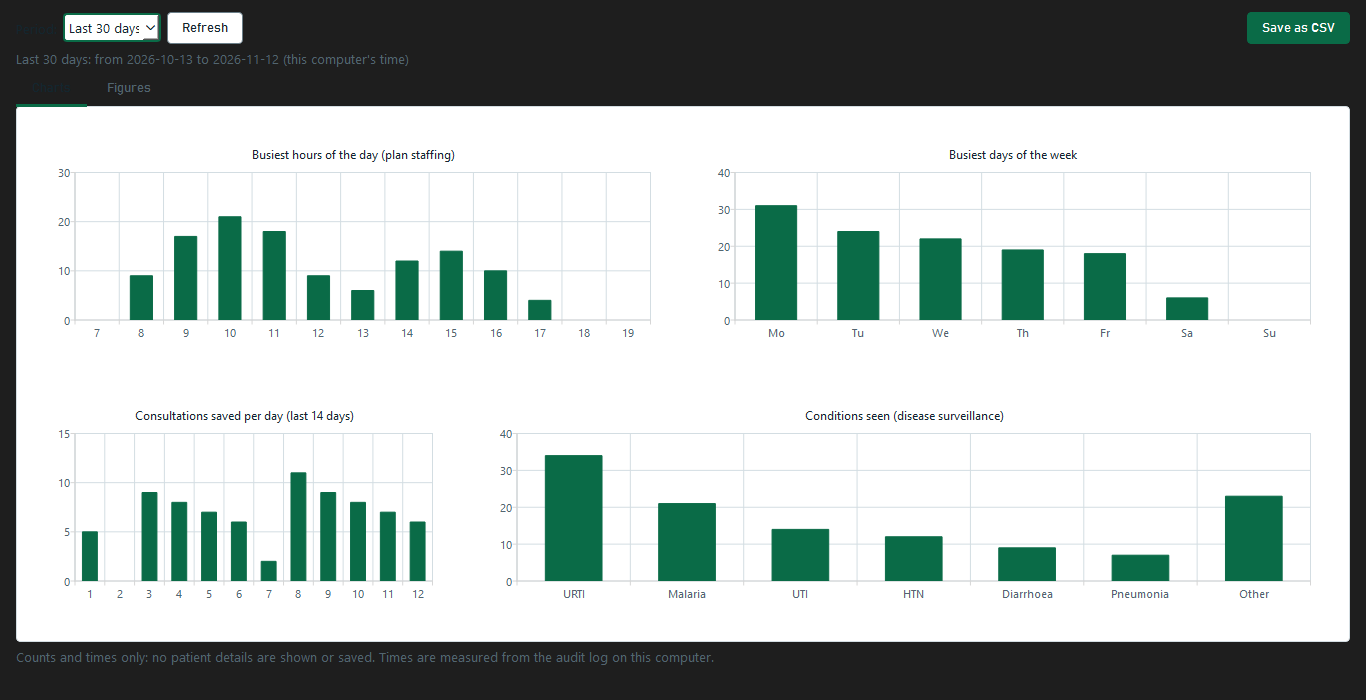
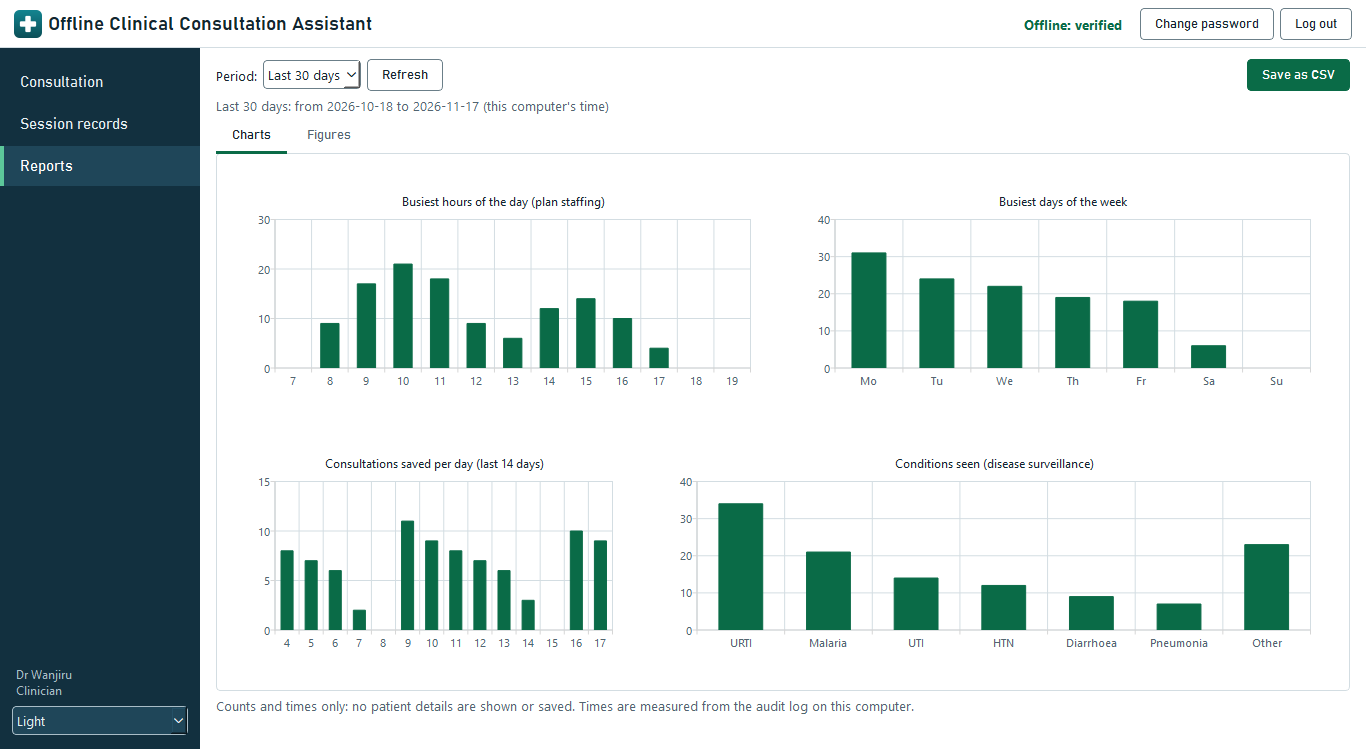
fix(reports): keep every date and condition name readable on the charts
With 14 days of data, the daily chart's two-digit dates were cut to
"..." in a third of the width. A 3 to 5 split fits 14 two-digit dates
and the longest condition name; a half cut "Pneumonia". Screenshots
retaken: the consultation screen with a typed summary drafted by the
local MedGemma, and Reports in a clinician's window.

diff --git a/src/clinassist/ui/reports.py b/src/clinassist/ui/reports.py
@@ -114,11 +114,11 @@ class ReportsView(QWidget):
         self.message.setWordWrap(True)
 
         # Charts: the reason the report exists. Each title says what the facility uses it for.
-        # Two rows; in the second, the conditions chart takes two thirds because its labels are
-        # the longest.
+        # Two rows. In the second, 3 to 5 is the split where 14 two-digit dates and the longest
+        # condition name both fit; a third for the dates cut "10" to "...", a half cut "Pneumonia".
         self.charts = QVBoxLayout()
         self.chart_views: dict[str, QChartView] = {}
-        rows = (((("hours", 1), ("days", 1))), (("daily", 1), ("conditions", 2)))
+        rows = (((("hours", 1), ("days", 1))), (("daily", 3), ("conditions", 5)))
         for row in rows:
             line = QHBoxLayout()
             for key, stretch in row:
